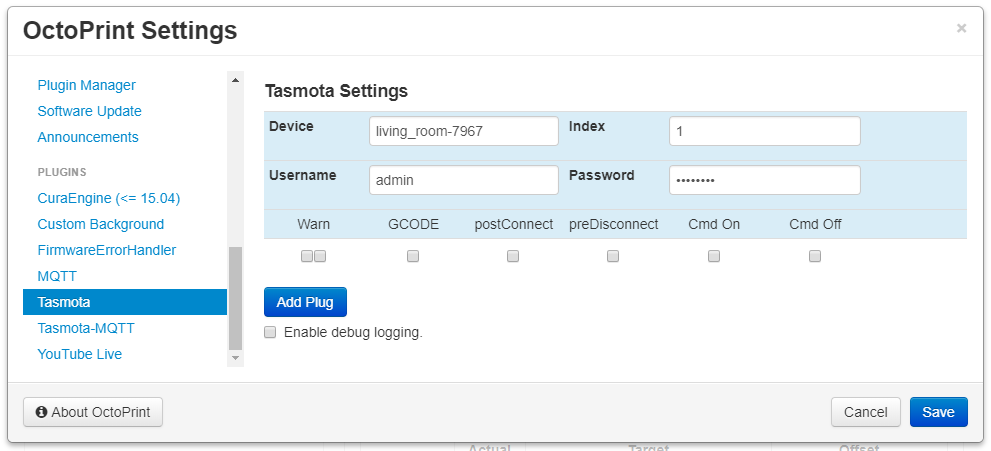
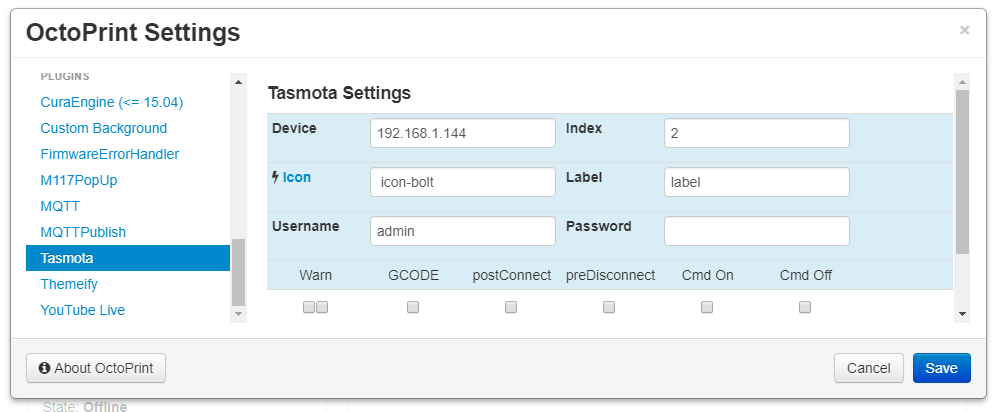
0.5.0 (#16)
### Notes
- previous settings will be erased during upgrade to accommodate for new features

### Added
- configurable icons using [fontawesome](http://fontawesome.io/3.2.1/cheatsheet/) class names in settings
- title attribute on icons are now configurable via new label setting

### Changed
- default value for index is now blank
- settings screenshot

Changed region(s): [[0.0, 0.0, 0.999, 1.0], [0.9687, 0.7573, 0.999, 0.7864]]

diff --git a/octoprint_tasmota/static/js/tasmota.js b/octoprint_tasmota/static/js/tasmota.js
@@ -37,7 +37,7 @@ $(function() {
 		
 		self.addPlug = function() {
 			self.settings.settings.plugins.tasmota.arrSmartplugs.push({'ip':ko.observable(''),
-									'idx':ko.observable(1),
+									'idx':ko.observable(''),
 									'displayWarning':ko.observable(true),
 									'warnPrinting':ko.observable(false),
 									'gcodeEnabled':ko.observable(false),
@@ -56,7 +56,9 @@ $(function() {
 									'currentState':ko.observable('unknown'),
 									'btnColor':ko.observable('#808080'),
 									'username':ko.observable('admin'),
-									'password':ko.observable('')});
+									'password':ko.observable(''),
+									'icon':ko.observable('icon-bolt'),
+									'label':ko.observable('')});
 		}
 		
 		self.removePlug = function(row) {

diff --git a/octoprint_tasmota/__init__.py b/octoprint_tasmota/__init__.py
@@ -42,7 +42,7 @@ class tasmotaPlugin(octoprint.plugin.SettingsPlugin,
 	def get_settings_defaults(self):
 		return dict(
 			debug_logging = False,
-			arrSmartplugs = [{'ip':'','displayWarning':True,'idx':1,'warnPrinting':False,'gcodeEnabled':False,'gcodeOnDelay':0,'gcodeOffDelay':0,'autoConnect':True,'autoConnectDelay':10.0,'autoDisconnect':True,'autoDisconnectDelay':0,'sysCmdOn':False,'sysRunCmdOn':'','sysCmdOnDelay':0,'sysCmdOff':False,'sysRunCmdOff':'','sysCmdOffDelay':0,'currentState':'unknown','btnColor':'#808080','username':'admin','password':''}],
+			arrSmartplugs = [{'ip':'','displayWarning':True,'idx':'','warnPrinting':False,'gcodeEnabled':False,'gcodeOnDelay':0,'gcodeOffDelay':0,'autoConnect':True,'autoConnectDelay':10.0,'autoDisconnect':True,'autoDisconnectDelay':0,'sysCmdOn':False,'sysRunCmdOn':'','sysCmdOnDelay':0,'sysCmdOff':False,'sysRunCmdOff':'','sysCmdOffDelay':0,'currentState':'unknown','btnColor':'#808080','username':'admin','password':'','icon':'icon-bolt','label':''}],
 		)
 		
 	def on_settings_save(self, data):	
@@ -58,7 +58,7 @@ class tasmotaPlugin(octoprint.plugin.SettingsPlugin,
 				self._tasmota_logger.setLevel(logging.INFO)
 				
 	def get_settings_version(self):
-		return 2
+		return 3
 		
 	def on_settings_migrate(self, target, current=None):
 		if current is None or current < self.get_settings_version():

diff --git a/setup.py b/setup.py
@@ -14,7 +14,7 @@ plugin_package = "octoprint_tasmota"
 plugin_name = "OctoPrint-Tasmota"
 
 # The plugin's version. Can be overwritten within OctoPrint's internal data via __plugin_version__ in the plugin module
-plugin_version = "0.4.0"
+plugin_version = "0.5.0"
 
 # The plugin's description. Can be overwritten within OctoPrint's internal data via __plugin_description__ in the plugin
 # module

diff --git a/README.md b/README.md
@@ -4,6 +4,8 @@ This plugin is to control ITead Sonoff devices that have been flashed with [Sono
 
 **Requires minimum Tasmota firmware version 5.9.0.**
 
+[Changelog](changelog.md)
+
 ##  Screenshots
 ![screenshot](screenshot.png)
 
@@ -27,6 +29,10 @@ Once installed go into settings and enter the ip address for your TP-Link Smartp
   - The ip or hostname of tasmota device.
 - **Index**
   - Index number reprensenting the relay to control. Leave blank for single relay devices.
+- **Icon**
+  - Icon class name from the [fontawesome](http://fontawesome.io/3.2.1/cheatsheet/) library.
+- **Label**
+  - Title attribute on icon that shows on mouseover.
 - **Username**
   - Username to connect to web interface.  Currently not configurable in Tasmota, use the default username admin.
 - **Password**
@@ -46,4 +52,5 @@ Once installed go into settings and enter the ip address for your TP-Link Smartp
   - When checked will run system command configured in **System Command On** setting after a delay in seconds configured in **System Command On Delay**.
 - **Cmd Off**
   - When checked will run system command configured in **System Command Off** setting after a delay in seconds configured in **System Command Off Delay**.
+
 

diff --git a/changelog.md b/changelog.md
@@ -4,6 +4,18 @@ All notable changes to this project will be documented in this file.
 The format is based on [Keep a Changelog](http://keepachangelog.com/en/1.0.0/)
 and this project adheres to [Semantic Versioning](http://semver.org/spec/v2.0.0.html).
 
+## [0.5.0] - 2018-01-11
+### Notes
+- previous settings will be erased during upgrade to accommodate for new features
+
+### Added
+- configurable icons using [fontawesome](http://fontawesome.io/3.2.1/cheatsheet/) class names in settings
+- title attribute on icons are now configurable via new label setting
+
+### Changed
+- default value for index is now blank
+- settings screenshot
+
 ## [0.4.0] - 2018-01-10
 ### Notes
 - requires minimum Tasmota firmware version 5.9.0.
@@ -28,6 +40,7 @@ and this project adheres to [Semantic Versioning](http://semver.org/spec/v2.0.0.
 ### Added
 - Initial release.
 
+[0.5.0]: https://github.com/jneilliii/OctoPrint-Tasmota/tree/0.5.0
 [0.4.0]: https://github.com/jneilliii/OctoPrint-Tasmota/tree/0.4.0
 [0.3.0]: https://github.com/jneilliii/OctoPrint-Tasmota/tree/0.3.0
 [0.2.0]: https://github.com/jneilliii/OctoPrint-Tasmota/tree/0.2.0
